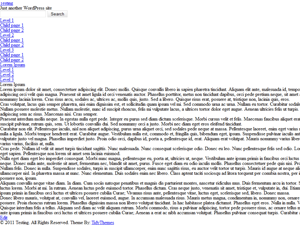
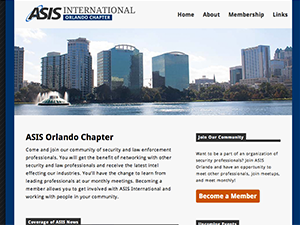
Navigation Styled

diff --git a/wordpress/wp-content/themes/asis/style.css b/wordpress/wp-content/themes/asis/style.css
@@ -287,7 +287,8 @@ h4 {
 
 /* Header Styles ============================================================================ */
 header {
-	overflow: hidden;
+	overflow: visible;
+	width: 100%;
 }
 
 h1 {
@@ -306,39 +307,102 @@ h1 a {
 
 nav {
 	float: right;
-	overflow: hidden;
+	overflow: visible;
 }
 
-nav ul li {
-	float: left;
+nav a{
+	text-decoration: none;
 }
 
-nav ul li a {
-	margin: 0 15px 30px;
-	padding-top: 35px;
+nav a:hover{
+	text-decoration: none;
+}
+
+
+#menu-asis_menu > li {
+	margin: 0 15px;
 	font-size: 2em;
 	font-family: 'droid_sansbold';
+	float: left;
+	position: relative;
+}
+
+#menu-asis_menu > li > a {
+	padding: 30px 0 10px;
 	border-top: 8px solid #f7f7f7;
 	display: block;
-	text-decoration: none;
 	
 	/* transitions */
-	transition: border-top 0.5s;
-	-moz-transition: border-top 0.5s; /* Firefox 4 */
-	-webkit-transition: border-top 0.5s; /* Safari and Chrome */
-	-o-transition: border-top 0.5s; /* Opera */
-	transition: border-top 0.5s;
-	-moz-transition: border-top 0.5s; /* Firefox 4 */
-	-webkit-transition: border-top 0.5s; /* Safari and Chrome */
-	-o-transition: border-top 0.5s; /* Opera */
+	transition: border-top 0.2s;
+	-moz-transition: border-top 0.2s; /* Firefox 4 */
+	-webkit-transition: border-top 0.2s; /* Safari and Chrome */
+	-o-transition: border-top 0.2s; /* Opera */
 }
 
-nav a:hover {
+nav #menu-asis_menu > li:hover > a {
 	border-top: 8px solid #003366;
 }
 
-.active {
+
+/* Active State */
+#menu-asis_menu > .current_page_item > a,
+#menu-asis_menu > .current-page-ancestor > a {
 	border-top: 8px solid #003366;
+}
+
+.sub-menu .current_page_item a {
+	background-color: #333;
+}
+
+nav ul li:hover .sub-menu {
+	height: 100%;
+	opacity: 1;
+	overflow: visible;
+}
+
+
+/* The Sub Navigation Styling */
+
+nav ul li .sub-menu {
+	height: 0;
+	padding-top: 5px;
+	text-align: right;
+	opacity: 0;
+	position: absolute;
+	top: 100%;
+	right: 0;
+	overflow: hidden;
+	font-weight: bold; 
+	
+	/* transitions */
+	transition: all 0.2s;
+	-moz-transition: all 0.2s; /* Firefox 4 */
+	-webkit-transition: all 0.2s; /* Safari and Chrome */
+	-o-transition: all 0.2s; /* Opera */
+}
+
+.sub-menu > li {
+	border-top: 1px solid #f2f2f2;
+	white-space: nowrap;
+}
+
+.sub-menu li a {
+	padding: 5px 10px;
+	background: #336699;
+	color: #f2f2f2;
+	font-size: 0.8em;
+	display: block;
+}
+
+.sub-menu li a:hover {
+	background: #333;
+}
+
+/* .menu-item-22 is Wordpress's class for ABOUT */
+/* .menu-item-21 is Wordpress's class for MEMBERSHIP */
+.menu-item-22,
+.menu-item-21 {
+	background: url(images/down_arrow.png) no-repeat center bottom;
 }
 
 
@@ -604,4 +668,30 @@ footer p:first-child {
 
 
 
+ 
 
+/* Clearfix */
+.clearfix:after,
+#menu-asis_menu:after {
+	content: ".";
+	display: block;
+	clear: both;
+	visibility: hidden;
+	line-height: 0;
+	height: 0;
+}
+ 
+.clearfix,
+#menu-asis_menu {
+	display: inline-block;
+}
+ 
+html[xmlns] .clearfix,
+html[xmlns] #menu-asis_menu {
+	display: block;
+}
+ 
+* html .clearfix,
+* html #menu-asis_menu {
+	height: 1%;
+}

diff --git a/wordpress/wp-content/themes/asis/header.php b/wordpress/wp-content/themes/asis/header.php
@@ -17,7 +17,7 @@
 		
 		<section id="main">
 			
-			<header>
+			<header class="clearfix">
 				<h1><a href="<?php echo home_url() ?>/" title="<?php bloginfo( 'name' ) ?>" rel="home"><?php bloginfo( 'name' ) ?></a></h1>
 			
 				<nav>
@@ -25,7 +25,7 @@
 				</nav><!-- /#nav  -->
 			</header><!-- /header -->
 			
-			
+
 			
 			
 			
